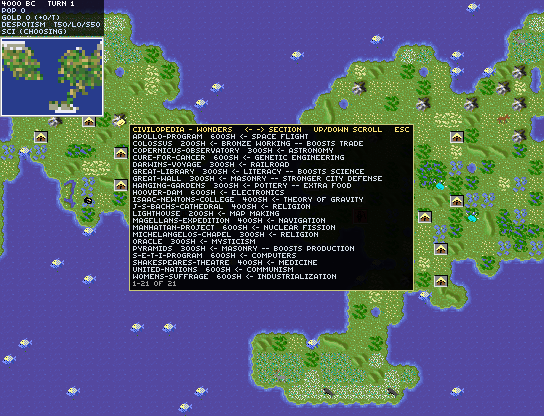
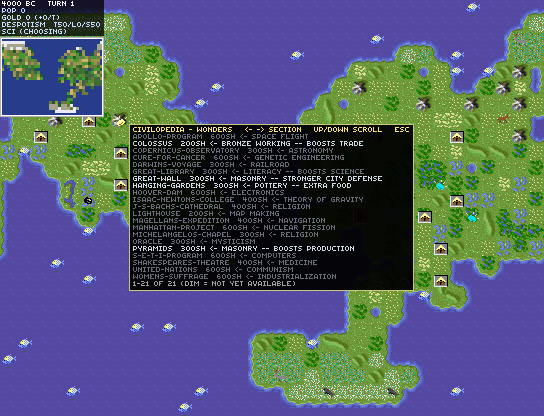
Civilopedia: dim entries the player can't have yet
pedia-lines now returns (text . have-p) pairs and draw-pedia takes the game
state: an advance the human hasn't researched, or a unit/building/wonder whose
prerequisite advance they lack, is drawn dimmed, so the bright entries are what's
available now. A footer notes 'dim = not yet available'. View-only; 976 model
checks pass.

Changed region(s): [[0.25, 0.3125, 0.6562, 0.6875]]

diff --git a/README.md b/README.md
@@ -226,12 +226,15 @@ toward it. The AI civilizations beeline their own priorities automatically.
 **Civilopedia.** Press `O` for a browsable in-game reference, read straight from
 the rule tables: every **advance** with its prerequisites, every **unit** with
 its attack/defense/move and cost, and every **building** and **wonder** with its
-cost, required advance, and effect. `←`/`→` switch sections, `↑`/`↓` scroll,
-`Esc` closes.
+cost, required advance, and effect. Entries you can't have yet — an unresearched
+advance, or a unit/building/wonder whose prerequisite advance you lack — are
+**dimmed**, so the bright entries are what's available to you now. `←`/`→` switch
+sections, `↑`/`↓` scroll, `Esc` closes.
 
 ![the Civilopedia, wonders section](docs/pedia-wonders.png)
 
-*The wonders section: cost, the advance that unlocks each, and its effect.*
+*The wonders section: cost, the advance that unlocks each, and its effect. The
+four whose advance this civ already has are bright; the rest are dimmed.*
 
 **City improvements** build up the economy, each with a live effect: a
 **marketplace** then a **bank** and **stock exchange** each add +50% gold (the
